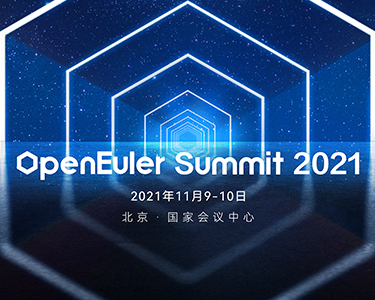
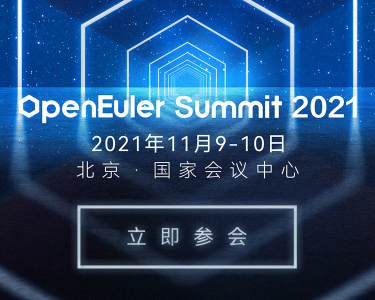
summit2021 update

diff --git a/web-ui/docs/.vuepress/lang/lang-modules/interaction.js b/web-ui/docs/.vuepress/lang/lang-modules/interaction.js
@@ -9,7 +9,7 @@ module.exports = {
             REPLAYER: '精彩回顾',
             LINKTIPS: '视频未上传，敬请期待！',
             LIVENOW: [
-                
+
             ],
             LIVEFORMERLY: [
                  {
@@ -511,19 +511,19 @@ module.exports = {
                                         TIME: '15:00-15:30',
                                         THEME: '基于 openEuler 的虚拟化和私有云落地实践',
                                         SPEAKER: ['仇大玉 华云数据控股集团有限公司'],
-                                        DESC: ['ARM 平台下，尤其是 openEuler 体系下，虚拟化平台性能优化以及如何快速适配最新的 SAN 设备，如何为用户提供较高性能的的 vGPU 体验成为一个较为突出问题，本次将给大家带来华云数据在虚拟化下的适配调优，以及虚拟化对外设支撑上的一些创新和实践。'] 
+                                        DESC: ['ARM 平台下，尤其是 openEuler 体系下，虚拟化平台性能优化以及如何快速适配最新的 SAN 设备，如何为用户提供较高性能的的 vGPU 体验成为一个较为突出问题，本次将给大家带来华云数据在虚拟化下的适配调优，以及虚拟化对外设支撑上的一些创新和实践。']
                                     },
                                     {
                                         TIME: '15:45-16:15',
                                         THEME: '基于 openEuler 的虚拟化性能优化',
                                         SPEAKER: ['庾志辉 深信服科技'],
-                                        DESC: ['介绍在 openEuler 系统上虚拟化性能的优化分享，包括存储、计算等性能的优化技术'] 
+                                        DESC: ['介绍在 openEuler 系统上虚拟化性能的优化分享，包括存储、计算等性能的优化技术']
                                     },
                                     {
                                         TIME: '16:15-16:45',
                                         THEME: '基于鲲鹏 + openEuler 创新云实践分享',
                                         SPEAKER: ['罗云 云宏信息科技股份有限公司'],
-                                        DESC: ['基于鲲鹏服务器和 openEuler 系统，我们研发了一款企业级服务器虚拟化和云管产品，赢得政府、金融、运营商等多个落地案例，从功能和性能上均收获了口碑，与各位同行分享'] 
+                                        DESC: ['基于鲲鹏服务器和 openEuler 系统，我们研发了一款企业级服务器虚拟化和云管产品，赢得政府、金融、运营商等多个落地案例，从功能和性能上均收获了口碑，与各位同行分享']
                                     },
                                     {}
                                 ]
@@ -889,22 +889,22 @@ module.exports = {
                             IMG: '/img/summit/home/lecturer/zhongjun.png',
                             NAME: '钟君',
                             POSITION: '华为 开源高级工程师'
-                        }, 
+                        },
                         {
                             IMG: '/img/summit/home/lecturer/zhangshuting.png',
                             NAME: '张舒婷',
                             POSITION: '华为 计算产品体验设计师'
-                        }, 
+                        },
                         {
                             IMG: '/img/summit/home/lecturer/weigang.png',
                             NAME: '魏刚',
                             POSITION: '华为 计算产品线可信安全技术专家'
-                        }, 
+                        },
                         {
                             IMG: '/img/summit/home/lecturer/yuanzhichang.png',
                             NAME: '袁志昌',
                             POSITION: 'Arm China 开源生态首席软件工程师'
-                        }, 
+                        },
                         {
                             IMG: '/img/summit/home/lecturer/chengong.png',
                             NAME: '陈功',
@@ -1446,6 +1446,11 @@ module.exports = {
         DEVDAY_2021: {
             PC_BANNER: '/img/summit/devday-2021/devday-2021-zh.png',
             H5_BANNER: '/img/summit/devday-2021/banner-h5-zh.png'
+        },
+        SUMMIT_2021: {
+            SPEACKER: '/img/summit/summit2021/call-speaker-zh.png',
+            SPEONSOR: '/img/summit/summit2021/call-sponsor-zh.png',
+            DEMO: '/img/summit/summit2021/call-demo-zh.png',
         }
     },
     en: {
@@ -1455,7 +1460,7 @@ module.exports = {
             REPLAYER: 'Wonderful Review',
             LINKTIPS: 'The video is not uploaded yet',
             LIVENOW: [
-            
+
             ],
             LIVEFORMERLY: [
                 {
@@ -1950,19 +1955,19 @@ module.exports = {
                                         TIME: '15:00-15:30',
                                         THEME: 'Implementing Virtualization and Private Cloud on openEuler',
                                         SPEAKER: ['Qiu Dayu, Huayun Data'],
-                                        DESC: ['How to optimize the virtualization platform performance and quickly adapt it to the latest SAN devices, and how to provide high-performance virtual GPUs (vGPUs) are the major issues on the ARM-based platform, especially on the openEuler OS. This topic will show you how Huayun Data optimizes and adapts the virtualization platform to the openEuler OS, and how the company innovates the virtualization platform to support peripheral devices.'] 
+                                        DESC: ['How to optimize the virtualization platform performance and quickly adapt it to the latest SAN devices, and how to provide high-performance virtual GPUs (vGPUs) are the major issues on the ARM-based platform, especially on the openEuler OS. This topic will show you how Huayun Data optimizes and adapts the virtualization platform to the openEuler OS, and how the company innovates the virtualization platform to support peripheral devices.']
                                     },
                                     {
                                         TIME: '15:45-16:15',
                                         THEME: 'Optimized Virtualization Performance Fueled by openEuler',
                                         SPEAKER: ['Qi Zhihui, Sangfor Technologies'],
-                                        DESC: ['The topic presents the technologies for optimizing virtualization performance on openEuler, including storage and computing performance.'] 
+                                        DESC: ['The topic presents the technologies for optimizing virtualization performance on openEuler, including storage and computing performance.']
                                     },
                                     {
                                         TIME: '16:15-16:45',
                                         THEME: 'Innovative Cloud Products Running on Kunpeng+openEuler',
                                         SPEAKER: ['Luo Yun, Winhong Information Technology'],
-                                        DESC: ['Winhong has developed an enterprise-grade product powered by Kunpeng-based servers and the openEuler OS. This product supercharges server virtualization and cloud management of enterprises, and has earned good reputation in a wide range of industries, including governments, finance, and carriers. Today, we would like to present this product to our peers.'] 
+                                        DESC: ['Winhong has developed an enterprise-grade product powered by Kunpeng-based servers and the openEuler OS. This product supercharges server virtualization and cloud management of enterprises, and has earned good reputation in a wide range of industries, including governments, finance, and carriers. Today, we would like to present this product to our peers.']
                                     },
                                     {}
                                 ]
@@ -2328,22 +2333,22 @@ module.exports = {
                             IMG: '/img/summit/home/lecturer/zhongjun.png',
                             NAME: 'Zhong Jun',
                             POSITION: 'Senior Open Source Engineer, Huawei'
-                        }, 
+                        },
                         {
                             IMG: '/img/summit/home/lecturer/zhangshuting.png',
                             NAME: 'Zhang Shuting',
                             POSITION: 'Computing Product Experience Designer, Huawei'
-                        }, 
+                        },
                         {
                             IMG: '/img/summit/home/lecturer/weigang.png',
                             NAME: 'Wei Gang',
                             POSITION: 'Security & Trustworthiness Technical Expert, Computing Product Line, Huawei'
-                        }, 
+                        },
                         {
                             IMG: '/img/summit/home/lecturer/yuanzhichang.png',
                             NAME: 'Yuan Zhichang',
                             POSITION: 'Chief Software Engineer of Open Source Ecosystem, Arm China'
-                        }, 
+                        },
                         {
                             IMG: '/img/summit/home/lecturer/chengong.png',
                             NAME: 'Chen Gong',
@@ -2885,6 +2890,11 @@ module.exports = {
         DEVDAY_2021: {
             PC_BANNER: '/img/summit/devday-2021/devday-2021-en.png',
             H5_BANNER: '/img/summit/devday-2021/banner-h5-en.png'
+        },
+        SUMMIT_2021: {
+            SPEACKER: '/img/summit/summit2021/call-speaker.png',
+            SPEONSOR: '/img/summit/summit2021/call-sponsor.png',
+            DEMO: '/img/summit/summit2021/call-demo.png',
         }
     },
     ru: {
@@ -2894,7 +2904,7 @@ module.exports = {
             REPLAYER: 'Отличная рецензия',
             LINKTIPS: 'The video is not uploaded yet',
             LIVENOW: [
-            
+
             ],
             LIVEFORMERLY: [
                 {
@@ -3389,19 +3399,19 @@ module.exports = {
                                         TIME: '15:00-15:30',
                                         THEME: 'Implementing Virtualization and Private Cloud on openEuler',
                                         SPEAKER: ['Qiu Dayu, Huayun Data'],
-                                        DESC: ['How to optimize the virtualization platform performance and quickly adapt it to the latest SAN devices, and how to provide high-performance virtual GPUs (vGPUs) are the major issues on the ARM-based platform, especially on the openEuler OS. This topic will show you how Huayun Data optimizes and adapts the virtualization platform to the openEuler OS, and how the company innovates the virtualization platform to support peripheral devices.'] 
+                                        DESC: ['How to optimize the virtualization platform performance and quickly adapt it to the latest SAN devices, and how to provide high-performance virtual GPUs (vGPUs) are the major issues on the ARM-based platform, especially on the openEuler OS. This topic will show you how Huayun Data optimizes and adapts the virtualization platform to the openEuler OS, and how the company innovates the virtualization platform to support peripheral devices.']
                                     },
                                     {
                                         TIME: '15:45-16:15',
                                         THEME: 'Optimized Virtualization Performance Fueled by openEuler',
                                         SPEAKER: ['Qi Zhihui, Sangfor Technologies'],
-                                        DESC: ['The topic presents the technologies for optimizing virtualization performance on openEuler, including storage and computing performance.'] 
+                                        DESC: ['The topic presents the technologies for optimizing virtualization performance on openEuler, including storage and computing performance.']
                                     },
                                     {
                                         TIME: '16:15-16:45',
                                         THEME: 'Innovative Cloud Products Running on Kunpeng+openEuler',
                                         SPEAKER: ['Luo Yun, Winhong Information Technology'],
-                                        DESC: ['Winhong has developed an enterprise-grade product powered by Kunpeng-based servers and the openEuler OS. This product supercharges server virtualization and cloud management of enterprises, and has earned good reputation in a wide range of industries, including governments, finance, and carriers. Today, we would like to present this product to our peers.'] 
+                                        DESC: ['Winhong has developed an enterprise-grade product powered by Kunpeng-based servers and the openEuler OS. This product supercharges server virtualization and cloud management of enterprises, and has earned good reputation in a wide range of industries, including governments, finance, and carriers. Today, we would like to present this product to our peers.']
                                     },
                                     {}
                                 ]
@@ -3767,22 +3777,22 @@ module.exports = {
                             IMG: '/img/summit/home/lecturer/zhongjun.png',
                             NAME: 'Zhong Jun',
                             POSITION: 'Senior Open Source Engineer, Huawei'
-                        }, 
+                        },
                         {
                             IMG: '/img/summit/home/lecturer/zhangshuting.png',
                             NAME: 'Zhang Shuting',
                             POSITION: 'Computing Product Experience Designer, Huawei'
-                        }, 
+                        },
                         {
                             IMG: '/img/summit/home/lecturer/weigang.png',
                             NAME: 'Wei Gang',
                             POSITION: 'Security & Trustworthiness Technical Expert, Computing Product Line, Huawei'
-                        }, 
+                        },
                         {
                             IMG: '/img/summit/home/lecturer/yuanzhichang.png',
                             NAME: 'Yuan Zhichang',
                             POSITION: 'Chief Software Engineer of Open Source Ecosystem, Arm China'
-                        }, 
+                        },
                         {
                             IMG: '/img/summit/home/lecturer/chengong.png',
                             NAME: 'Chen Gong',
@@ -4324,6 +4334,11 @@ module.exports = {
         DEVDAY_2021: {
             PC_BANNER: '/img/summit/devday-2021/devday-2021-en.png',
             H5_BANNER: '/img/summit/devday-2021/banner-h5-en.png'
+        },
+        SUMMIT_2021: {
+            SPEACKER: '/img/summit/summit2021/call-speaker.png',
+            SPEONSOR: '/img/summit/summit2021/call-sponsor.png',
+            DEMO: '/img/summit/summit2021/call-demo.png',
         }
     }
 };

diff --git a/web-ui/docs/.vuepress/components/summit/summit-summit.vue b/web-ui/docs/.vuepress/components/summit/summit-summit.vue
@@ -1,18 +1,18 @@
 <template>
   <div>
     <div class="banner">
-      <a href="https://e-campaign.huawei.com/m/mIzQFr" target="_blank"><img src="/img/summit/summit2021/summit2021-pc.png"></a>
+      <a href="https://e-campaign.huawei.com/m/FjEF3q" target="_blank"><img src="/img/summit/summit2021/summit2021-pc.png"></a>
     </div>
     <div class="h5-banner">
-      <a href="https://e-campaign.huawei.com/m/mIzQFr" target="_blank"><img src="/img/summit/summit2021/summit2021-mo.png"></a>
+      <a href="https://e-campaign.huawei.com/m/FjEF3q" target="_blank"><img src="/img/summit/summit2021/summit2021-mo.png"></a>
     </div>
     <div class="container">
       <div class="text-wrapper">
-        <p class="text">openEuler Summit 是由欧拉开源社区举办的开发者峰会。openEuler从服务器操作系统，升级为数字基础设施的操作系统，支持IT、CT、OT等数字基础设施全场景，覆盖服务器、云、边、嵌入式等各种形态的需求。伴随21.09版本的发布 openEuler 已经包含了服务器、云原生、边缘计算和嵌入式的四大应用场景。openEuler 通过开源开放，不断探索科技创新的边界，驱动物理世界与数字世界的深度融合。开发者、用户、社区贡献者、软件爱好者在 openEuler Summit 汇聚，驱动无止境的创新与拓展，闪耀数字时代星辰大海。</p>
+        <p class="text">openEuler Summit 是由欧拉开源社区举办的开发者峰会。openEuler从服务器操作系统，升级为数字基础设施的操作系统，支持IT、CT、OT等数字基础设施全场景，覆盖服务器、云、边、嵌入式等各种形态的需求。伴随21.09版本的发布 openEuler 已经包含了服务器、云原生、边缘计算和嵌入式的四大应用场景。openEuler 通过开源开放，不断探索科技创新的边界，开发者、用户、社区贡献者、软件爱好者在 openEuler Summit 汇聚，驱动无止境的创新与拓展，闪耀数字时代星辰大海。</p>
         <div class="link-wrapper">
-          <a href="https://shimowendang.com/forms/X6X9jj9KPcdQwVr8/fill" target="_blank"><img src="/img/summit/summit2021/call-speaker.png"></a>
-          <a href="https://shimowendang.com/forms/X6X9jj9KPcdQwVr8/fill" target="_blank"><img src="/img/summit/summit2021/call-sponsor.png"></a>
-          <a href="https://shimowendang.com/forms/LjHs8JlsLSsW92kl/fill" target="_blank"><img src="/img/summit/summit2021/call-demo.png"></a>
+          <a href="https://shimowendang.com/forms/X6X9jj9KPcdQwVr8/fill" target="_blank"><img :src="i18n.interaction.SUMMIT_2021.SPEACKER"></a>
+          <a href="https://shimowendang.com/forms/k76zTLKvumYwRdsP/fill" target="_blank"><img :src="i18n.interaction.SUMMIT_2021.SPEONSOR"></a>
+          <a href="https://shimowendang.com/forms/LjHs8JlsLSsW92kl/fill" target="_blank"><img :src="i18n.interaction.SUMMIT_2021.DEMO"></a>
         </div>
       </div>
       <div class="review-wrapper">

diff --git a/web-ui/docs/.vuepress/components/home/home.vue b/web-ui/docs/.vuepress/components/home/home.vue
@@ -210,7 +210,7 @@
             </div>
         </div>
 
-        <div class="home-developer">
+        <div class="home-developer" v-if="false">
             <h3 :class="$lang == 'en'?'en-h3':''">{{ i18n.home.HOME_DEV.DEV_TITLE }}</h3>
             <p :class="$lang == 'en'?'en-developer-p':''">{{ i18n.home.HOME_DEV.DEV_DESCRIPTION }}</p>
             <div class="dev-leader" v-fade v-if="developerList.length">
